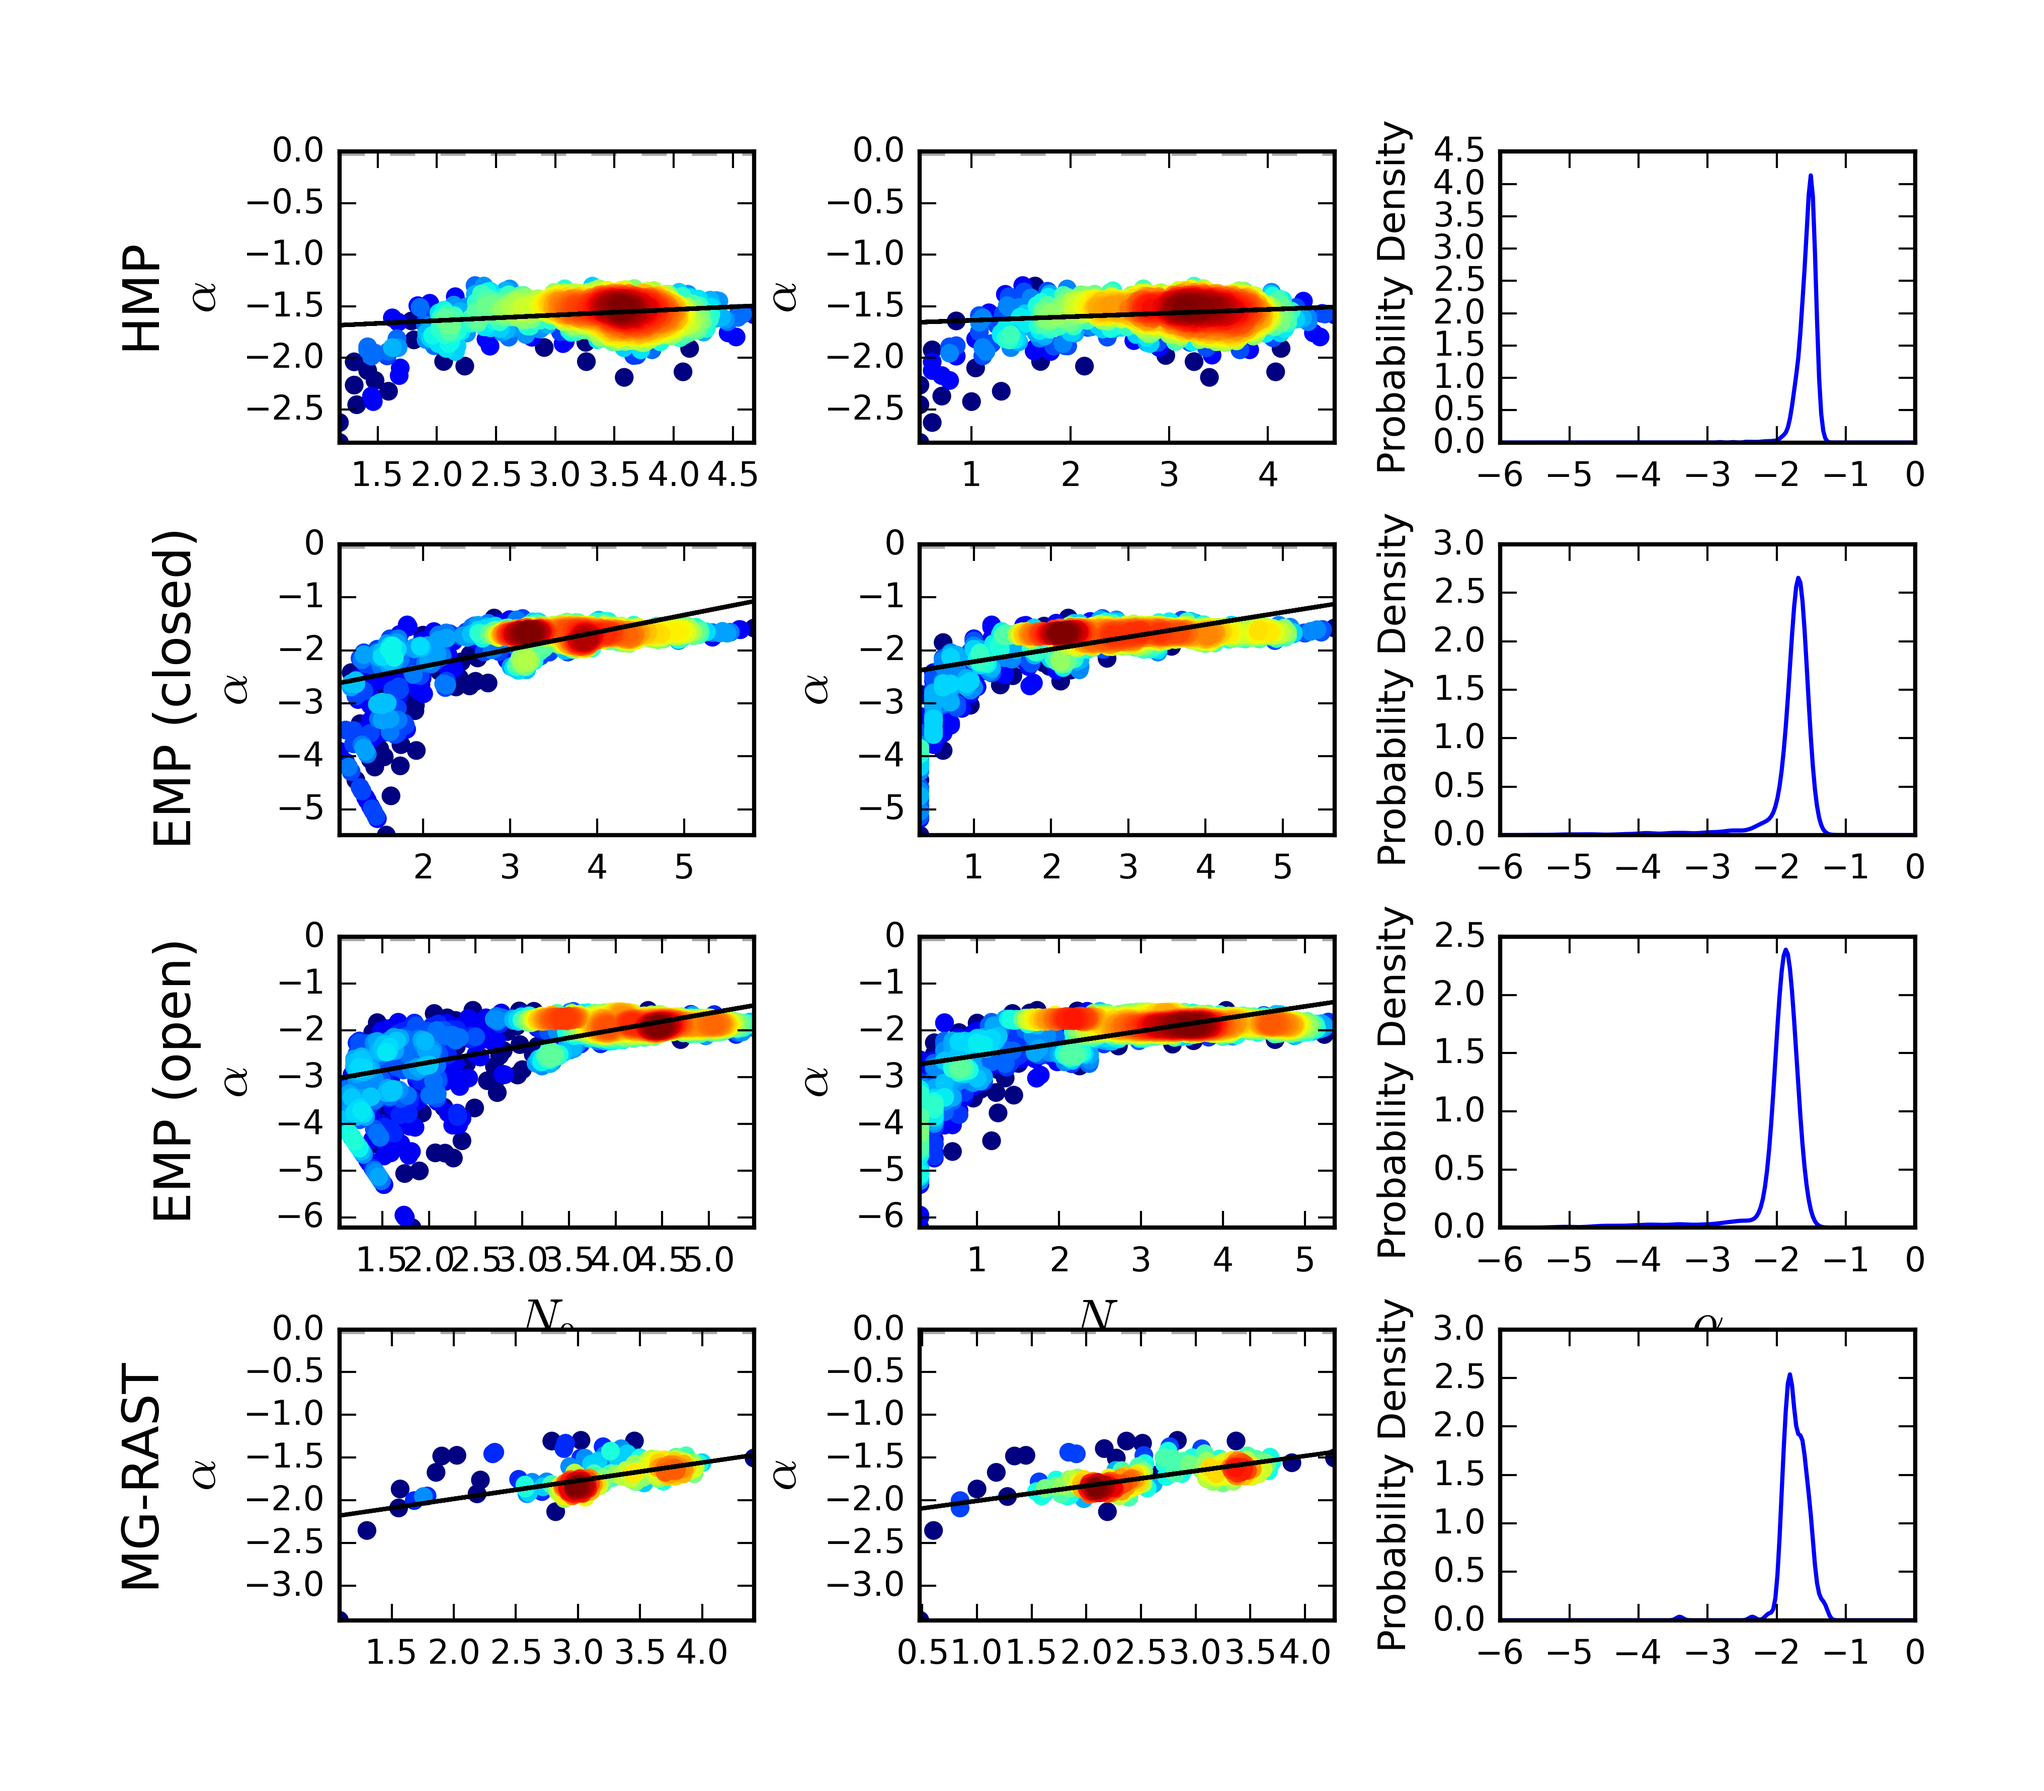
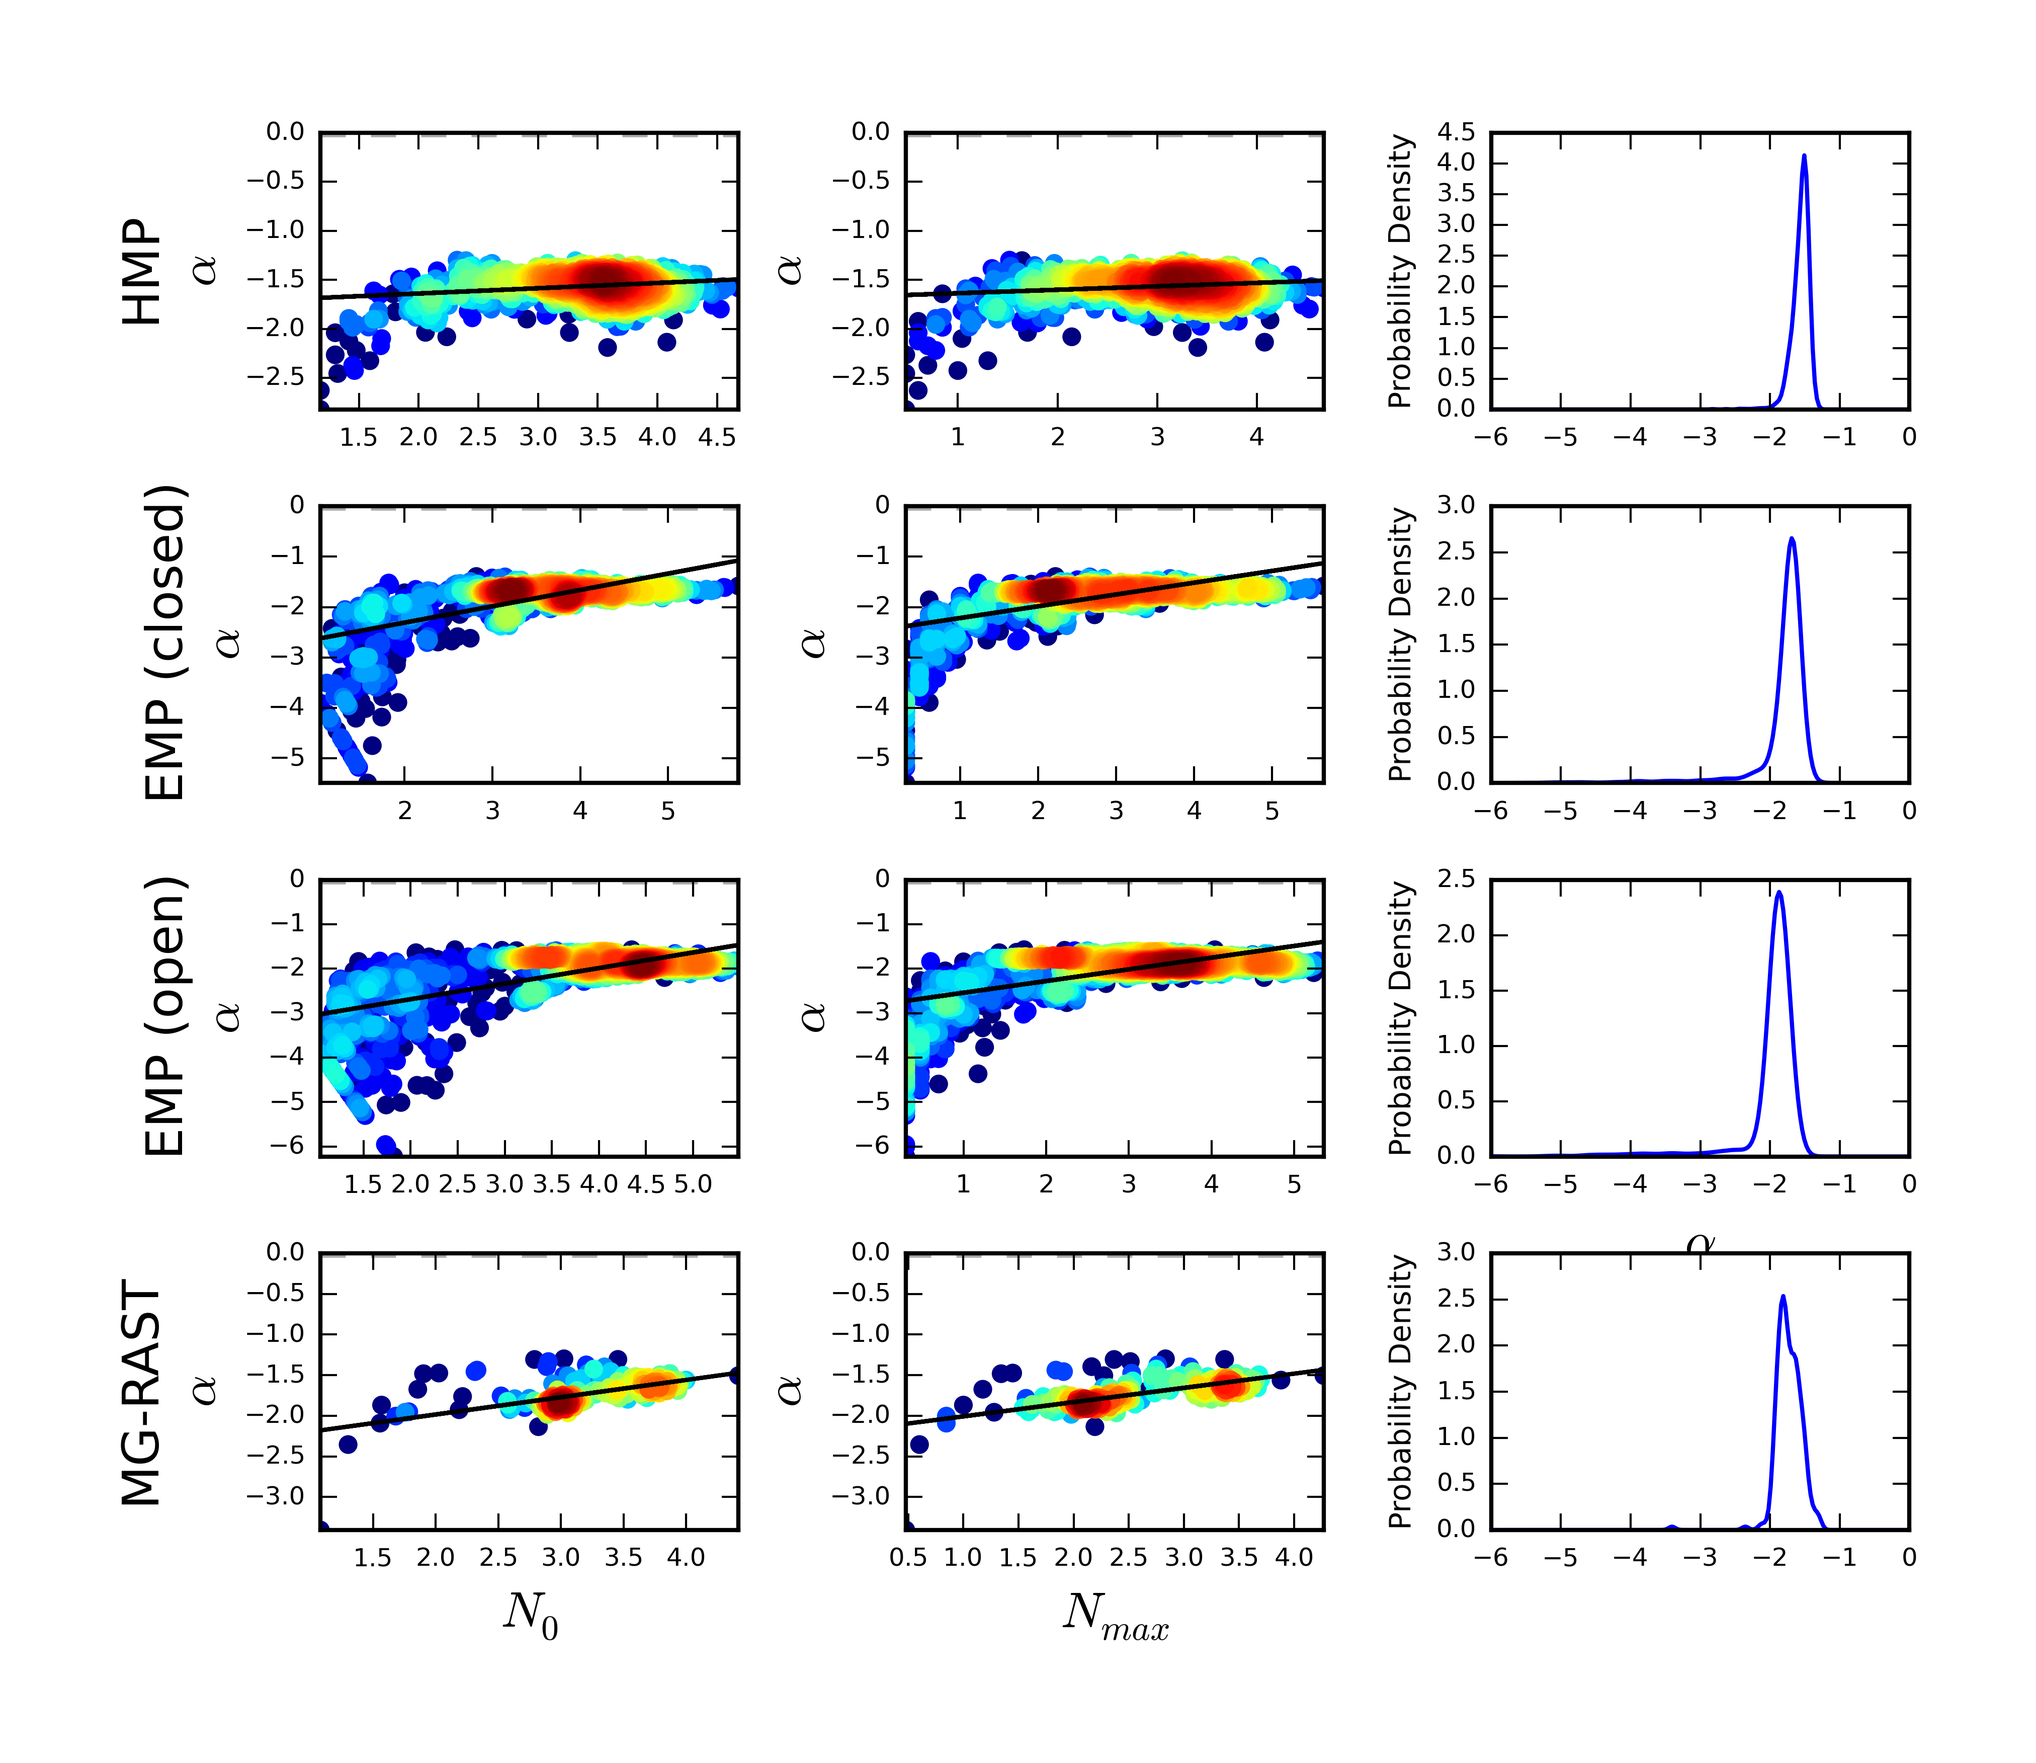
Fixed x-axis fig S9

diff --git a/Python/generate_figs_zipf.py b/Python/generate_figs_zipf.py
@@ -765,8 +765,8 @@ def zipf_mle_plots(data_dir= mydir):
             slope, intercept, r_value, p_value, std_err = stats.linregress(N,y)
             plt.xlim(np.amin(N), np.amax(N))
             plt.ylim(np.amin(y),0)
-            plt.xticks(fontsize = 8) # work on current fig
-            plt.yticks(fontsize = 8)
+            plt.xticks(fontsize = 6) # work on current fig
+            plt.yticks(fontsize = 6)
 
             if dataset == 'HMP':
                 #ax.set_ylabel("HMP", rotation=90, size=12)
@@ -795,7 +795,7 @@ def zipf_mle_plots(data_dir= mydir):
             elif dataset == 'MGRAST':
                 ax.set_ylabel(r'MG-RAST' '\n' r'$\alpha$', rotation=90, size=12)
 
-            if i == 2:
+            if i == 3:
                 plt.xlabel(r'$N_{0}$', fontsize = 12)
                 #ax.set_xlabel("N", rotation=0, size=12)
             predict_y = intercept + slope * N
@@ -814,9 +814,8 @@ def zipf_mle_plots(data_dir= mydir):
             slope, intercept, r_value, p_value, std_err = stats.linregress(x,y)
             plt.xlim(np.amin(x), np.amax(x))
             plt.ylim(np.amin(y),0)
-            plt.xticks(fontsize = 8) # work on current fig
-            plt.yticks(fontsize = 8)
-            plt.yaxis.set_major_formatter(mtick.FormatStrFormatter('%.1'))
+            plt.xticks(fontsize = 6) # work on current fig
+            plt.yticks(fontsize = 6)
             predict_y = intercept + slope * x
             pred_error = y - predict_y
             degrees_of_freedom = len(x) - 2
@@ -825,7 +824,7 @@ def zipf_mle_plots(data_dir= mydir):
             plt.plot(x, predict_y, 'k-')
             plt.axhline(linewidth=2, color='darkgrey',ls='--')
 
-            if i == 2:
+            if i == 3:
                 plt.xlabel(r"$N_{max}$", fontsize = 12)
             #plt.hline(0, xmin, xmax, color="0.3", ls='--')
             plt.ylabel(r'$\alpha$', fontsize = 12)
@@ -840,11 +839,11 @@ def zipf_mle_plots(data_dir= mydir):
             plt.subplot(plot_dim, plot_dim, count+3)
             plt.plot(ys,density(ys))
 
-            plt.xticks(fontsize = 8) # work on current fig
-            plt.yticks(fontsize = 8)
+            plt.xticks(fontsize = 6) # work on current fig
+            plt.yticks(fontsize = 6)
             if i == 2:
                 plt.xlabel(r'$\alpha$', fontsize = 12)
-            plt.ylabel('Probability Density', fontsize = 9)
+            plt.ylabel('Probability Density', fontsize = 7)
             #plt.legend(loc='best')
             count += plot_dim
 
@@ -867,11 +866,10 @@ params = ['N','S', 'N/S']
 #datasets = ['HMP', 'EMPclosed','MGRAST']
 #datasets = ['HMP', 'EMPclosed','EMPopen']
 #datasets = ['HMP', 'EMPclosed', '97']
-#datasets = ['HMP', 'EMPclosed','EMPopen','97']
-#datasets = [ 'EMPclosed','EMPopen','95', '97','99']
+datasets = [ 'EMPclosed','EMPopen','MGRAST']
 #datasets = ['HMP', 'EMPclosed', '97']
 #datasets = ['MCDB', 'BBS', 'GENTRY']
-datasets = ['95', '97','99']
+#datasets = ['95', '97','99']
 #datasets = ['EMPclosed']
 #datasets = ['MGRAST']
 
